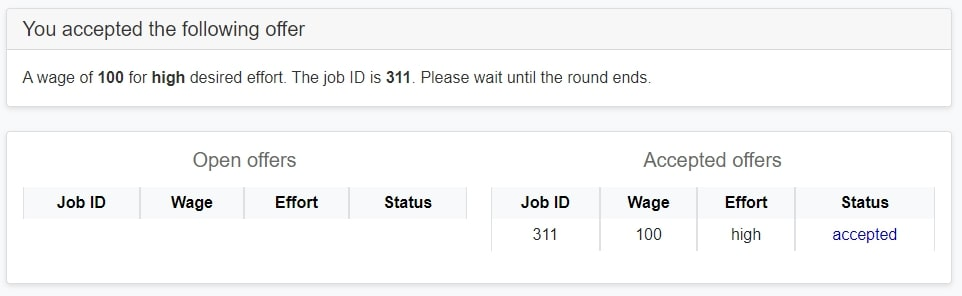
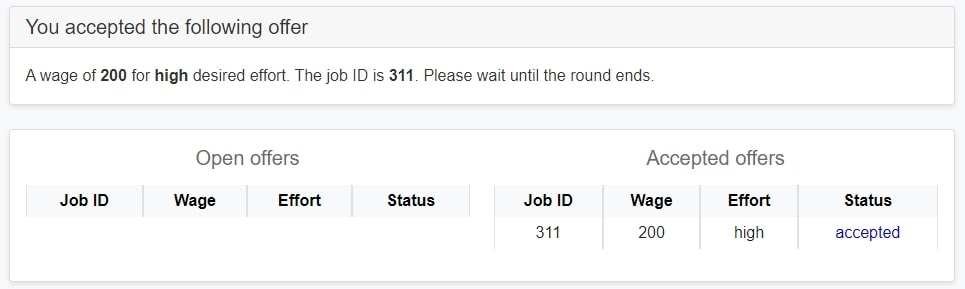
Update instructions to account for tokens

diff --git a/gefinal/part1/MarketPage.html b/gefinal/part1/MarketPage.html
@@ -98,7 +98,7 @@
                         <div class="input-group-prepend">
                             <span class="input-group-text" id="wage-addon1">Wage</span>
                         </div>
-                        <input id="wage_input_1" class="form-control" placeholder="0 - 100" aria-describedby="basic-addon1">
+                        <input id="wage_input_1" class="form-control" placeholder="0 - {{ max_wage }}" aria-describedby="basic-addon1">
                     </div>
                     <div class="input-group mb-3">
                         <div class="input-group-prepend">
@@ -145,7 +145,7 @@
                         <div class="input-group-prepend">
                         <span class="input-group-text" id="wage-addon2">Wage</span>
                         </div>
-                        <input id="wage_input_2" class="form-control" placeholder="0 - 100" aria-describedby="basic-addon1">
+                        <input id="wage_input_2" class="form-control" placeholder="0 - {{ max_wage }}" aria-describedby="basic-addon1">
                     </div>
                     <div class="input-group mb-3">
                             <div class="input-group-prepend">
@@ -516,11 +516,12 @@
           }
         let effort_inputted = parseInt(effort_input_element.value);
         let wage_inputted = parseInt(wage_input_element.value);
+        let max_wage = js_vars.max_wage;
         if (isNaN(wage_inputted) || isNaN(effort_inputted)) {
             alert("Error: Please enter a number in both fields before sending offer.");
             return;
-        } else if (wage_inputted < 0 || wage_inputted > 100) {
-            alert("Error: Please specify a wage between 0 and 100.");
+        } else if (wage_inputted < 0 || wage_inputted > max_wage) {
+            alert("Error: Please specify a wage between 0 and " +  max_wage + ".");
             return;
         } else if (effort_inputted < 0 || effort_inputted > 1) {
             alert("Error: Please choose either high or low effort.");

diff --git a/gefinal/part2/MarketPage.html b/gefinal/part2/MarketPage.html
@@ -98,7 +98,7 @@
                         <div class="input-group-prepend">
                             <span class="input-group-text" id="wage-addon1">Wage</span>
                         </div>
-                        <input id="wage_input_1" class="form-control" placeholder="0 - 100" aria-describedby="basic-addon1">
+                        <input id="wage_input_1" class="form-control" placeholder="0 - {{ max_wage }}" aria-describedby="basic-addon1">
                     </div>
                     <div class="input-group mb-3">
                         <div class="input-group-prepend">
@@ -145,7 +145,7 @@
                         <div class="input-group-prepend">
                         <span class="input-group-text" id="wage-addon2">Wage</span>
                         </div>
-                        <input id="wage_input_2" class="form-control" placeholder="0 - 100" aria-describedby="basic-addon1">
+                        <input id="wage_input_2" class="form-control" placeholder="0 - {{ max_wage }}" aria-describedby="basic-addon1">
                     </div>
                     <div class="input-group mb-3">
                             <div class="input-group-prepend">
@@ -516,11 +516,12 @@
           }
         let effort_inputted = parseInt(effort_input_element.value);
         let wage_inputted = parseInt(wage_input_element.value);
+        let max_wage = js_vars.max_wage;
         if (isNaN(wage_inputted) || isNaN(effort_inputted)) {
             alert("Error: Please enter a number in both fields before sending offer.");
             return;
-        } else if (wage_inputted < 0 || wage_inputted > 100) {
-            alert("Error: Please specify a wage between 0 and 100.");
+        } else if (wage_inputted < 0 || wage_inputted > max_wage) {
+            alert("Error: Please specify a wage between 0 and " + max_wage + ".");
             return;
         } else if (effort_inputted < 0 || effort_inputted > 1) {
             alert("Error: Please choose either high or low effort.");

diff --git a/gefinal/intro/InstructionsWorkers.html b/gefinal/intro/InstructionsWorkers.html
@@ -225,7 +225,7 @@
                 They can submit up two open job offers at a time.
                 They can also submit no offer at all or cancel open offer.
                 The offers employers send will appear in the "<b>Open offers</b>" table in the left-bottom of the page.
-                An offer includes a wage between 0 and 100 {{ currency_plural }}, a desired effort level which is either "high" or "low", and a unique Job ID for each job.
+                An offer includes a wage between 0 and {{ max_wage }} {{ currency_plural }}, a desired effort level which is either "high" or "low", and a unique Job ID for each job.
             </p>
             <div style="display: flex; justify-content: center;">
                 {% if player.participant.currency_is_points == True %}

diff --git a/gefinal/intro/InstructionsFirms.html b/gefinal/intro/InstructionsFirms.html
@@ -236,7 +236,7 @@
             To send a job offer, you must:
             </p>
                 <ol class="list" style="margin-top: -10px">
-                    <li>choose a wage between 0 and 100 {{ currency_plural }}.</li>
+                    <li>choose a wage between 0 and {{ max_wage }} {{ currency_plural }}.</li>
                     <li>indicate whether you want the worker to provide <b>"high"</b> or <b>"low"</b> effort.</li>
                     <li>click on "Send Offer".</li>
                 </ol>

diff --git a/gefinal/intro/__init__.py b/gefinal/intro/__init__.py
@@ -161,6 +161,7 @@ class InstructionsWorkers(Page):
             q2_wage = C.Q2_WAGE
             q3_wage_1 = C.Q3_WAGE_1
             q3_wage_2 = C.Q3_WAGE_2
+            max_wage = session.config['max_wage']
         else:
             exchange_rate = session.config['payout_rate'] * (1/session.config['exchange_rate'])
             initial_points_tokens = session.config['showup_fee'] * (1/session.config['payout_rate']) * session.config['exchange_rate']
@@ -176,6 +177,7 @@ class InstructionsWorkers(Page):
             q2_wage = C.Q2_WAGE * session.config['exchange_rate']
             q3_wage_1 = C.Q3_WAGE_1 * session.config['exchange_rate']
             q3_wage_2 = C.Q3_WAGE_2 * session.config['exchange_rate']
+            max_wage = session.config['max_wage'] * session.config['exchange_rate']
 
         worker_example_profit_low_effort = worker_example_wage - low_effort_points_tokens
         worker_example_profit_high_effort = worker_example_wage - high_effort_points_tokens
@@ -198,6 +200,7 @@ class InstructionsWorkers(Page):
             print('error: no market type')
 
         return dict(
+            max_wage=max_wage,
             q2_effort_requested=C.Q2_EFFORT_REQUESTED,
             q2_effort_received=C.Q2_EFFORT_RECEIVED,
             q3_effort_received_1=C.Q3_EFFORT_RECEIVED_1,
@@ -260,6 +263,12 @@ class InstructionsWorkers(Page):
             q3_worker_profit_1 = q3_wage_1 - q3_effort_cost_1
             q3_worker_profit_2 = q3_wage_2 - q3_effort_cost_2
         else:
+            q2_effort_worth = q2_effort_worth * session.config['exchange_rate']
+            q3_effort_worth_1 = q3_effort_worth_1 * session.config['exchange_rate']
+            q3_effort_worth_2 = q3_effort_worth_2 * session.config['exchange_rate']
+            q2_effort_cost = q2_effort_cost * session.config['exchange_rate']
+            q3_effort_cost_1 = q3_effort_cost_1 * session.config['exchange_rate']
+            q3_effort_cost_2 = q3_effort_cost_2 * session.config['exchange_rate']
             q1_employer_profit = session.config['employer_outside_option']
             q1_worker_profit = session.config['worker_outside_option']
             q2_wage = C.Q2_WAGE * session.config['exchange_rate']
@@ -299,6 +308,7 @@ class InstructionsWorkers(Page):
                 print('Correct employer profit:', q2_employer_profit, 'Correct worker profit:', q2_worker_profit)
                 print('Received employer profit:', data['employer_profit'], 'Received worker profit:',
                       data['worker_profit'])
+                print('Effort worth:', q2_effort_worth, 'Effort cost:', q2_effort_cost, 'Wage:', q2_wage)
                 if int(data['employer_profit']) == q2_employer_profit and int(
                         data['worker_profit']) == q2_worker_profit:
                     print('correct!')
@@ -374,6 +384,7 @@ class InstructionsFirms(Page):
             q2_wage = C.Q2_WAGE
             q3_wage_1 = C.Q3_WAGE_1
             q3_wage_2 = C.Q3_WAGE_2
+            max_wage = session.config['max_wage']
         else:
             exchange_rate = session.config['payout_rate'] * (1/session.config['exchange_rate'])
             initial_points_tokens = session.config['showup_fee'] * (1/session.config['payout_rate']) * session.config['exchange_rate']
@@ -389,6 +400,7 @@ class InstructionsFirms(Page):
             q2_wage = C.Q2_WAGE * session.config['exchange_rate']
             q3_wage_1 = C.Q3_WAGE_1 * session.config['exchange_rate']
             q3_wage_2 = C.Q3_WAGE_2 * session.config['exchange_rate']
+            max_wage = session.config['max_wage'] * session.config['exchange_rate']
 
         worker_example_profit_low_effort = worker_example_wage - low_effort_points_tokens
         worker_example_profit_high_effort = worker_example_wage - high_effort_points_tokens
@@ -411,6 +423,7 @@ class InstructionsFirms(Page):
             print('error: no market type')
 
         return dict(
+            max_wage=max_wage,
             q2_effort_requested=C.Q2_EFFORT_REQUESTED,
             q2_effort_received=C.Q2_EFFORT_RECEIVED,
             q3_effort_received_1=C.Q3_EFFORT_RECEIVED_1,

diff --git a/gefinal/part2/__init__.py b/gefinal/part2/__init__.py
@@ -209,10 +209,17 @@ class MarketPage(Page):
     @staticmethod
     def vars_for_template(player: Player):
         group = player.group
+        session = player.session
         players_in_group = group.players_in_group
         employers_in_group = group.employers_in_group
 
-        return dict(players_in_group=players_in_group,
+        if player.participant.vars['currency_is_points'] is True:
+            max_wage = session.config['max_wage']
+        else:
+            max_wage = session.config['max_wage'] * session.config['exchange_rate']
+
+        return dict(max_wage=max_wage,
+                    players_in_group=players_in_group,
                     employers_in_group=employers_in_group,
                     num_workers=players_in_group - employers_in_group,
                     round_number=player.round_number,
@@ -221,10 +228,17 @@ class MarketPage(Page):
 
     @staticmethod
     def js_vars(player: Player):
-        return dict(my_id=player.participant.vars['playerID'],
+        session = player.session
+        if player.participant.vars['currency_is_points'] is True:
+            max_wage = session.config['max_wage']
+        else:
+            max_wage = session.config['max_wage'] * session.config['exchange_rate']
+        return dict(max_wage=max_wage,
+                    my_id=player.participant.vars['playerID'],
                     is_employer=player.participant.vars['is_employer'],
                     string_role=player.participant.vars['string_role'],
                     currency_is_points=player.participant.vars['currency_is_points'])
+
 
     @staticmethod
     def before_next_page(player: Player, timeout_happened):

diff --git a/gefinal/part1/__init__.py b/gefinal/part1/__init__.py
@@ -210,11 +210,18 @@ class MarketPage(Page):
 
     @staticmethod
     def vars_for_template(player: Player):
+        session = player.session
         group = player.group
         players_in_group = group.players_in_group
         employers_in_group = group.employers_in_group
 
-        return dict(players_in_group=players_in_group,
+        if player.participant.vars['currency_is_points'] is True:
+            max_wage = session.config['max_wage']
+        else:
+            max_wage = session.config['max_wage'] * session.config['exchange_rate']
+
+        return dict(max_wage=max_wage,
+                    players_in_group=players_in_group,
                     employers_in_group=employers_in_group,
                     num_workers=players_in_group - employers_in_group,
                     round_number=player.round_number,
@@ -223,7 +230,13 @@ class MarketPage(Page):
 
     @staticmethod
     def js_vars(player: Player):
-        return dict(my_id=player.participant.vars['playerID'],
+        session = player.session
+        if player.participant.vars['currency_is_points'] is True:
+            max_wage = session.config['max_wage']
+        else:
+            max_wage = session.config['max_wage'] * session.config['exchange_rate']
+        return dict(max_wage=max_wage,
+                    my_id=player.participant.vars['playerID'],
                     is_employer=player.participant.vars['is_employer'],
                     string_role=player.participant.vars['string_role'],
                     currency_is_points=player.participant.vars['currency_is_points'])

diff --git a/gefinal/settings.py b/gefinal/settings.py
@@ -25,12 +25,13 @@ SESSION_CONFIGS = [
                         'questionnaire2',
                         'end'],
          num_demo_participants=9,
-         final=False,                                                               # Display instructions
+         final=False,                                                              # Display instructions
          market_timeout_seconds=180,                                               # Duration of market stage in seconds
          countdown_seconds=3,                                                      # Duration of countdown in seconds
          showup_fee=12.0,                                                          # Participation show-up fee
          payout_rate=0.01,                                                         # Payout rate: 1 point = X Pounds
          exchange_rate=2,                                                          # Exchange rate: 1 point = X tokens
+         max_wage=100,                                                             # Maximum wage in points
          employer_outside_option=0,                                                # Outside option for employers in points
          worker_outside_option=0,                                                  # Outside option for workers in points
          MPL_high=[160, 140],                                                      # Revenue high effort for 1 or 2 workers
